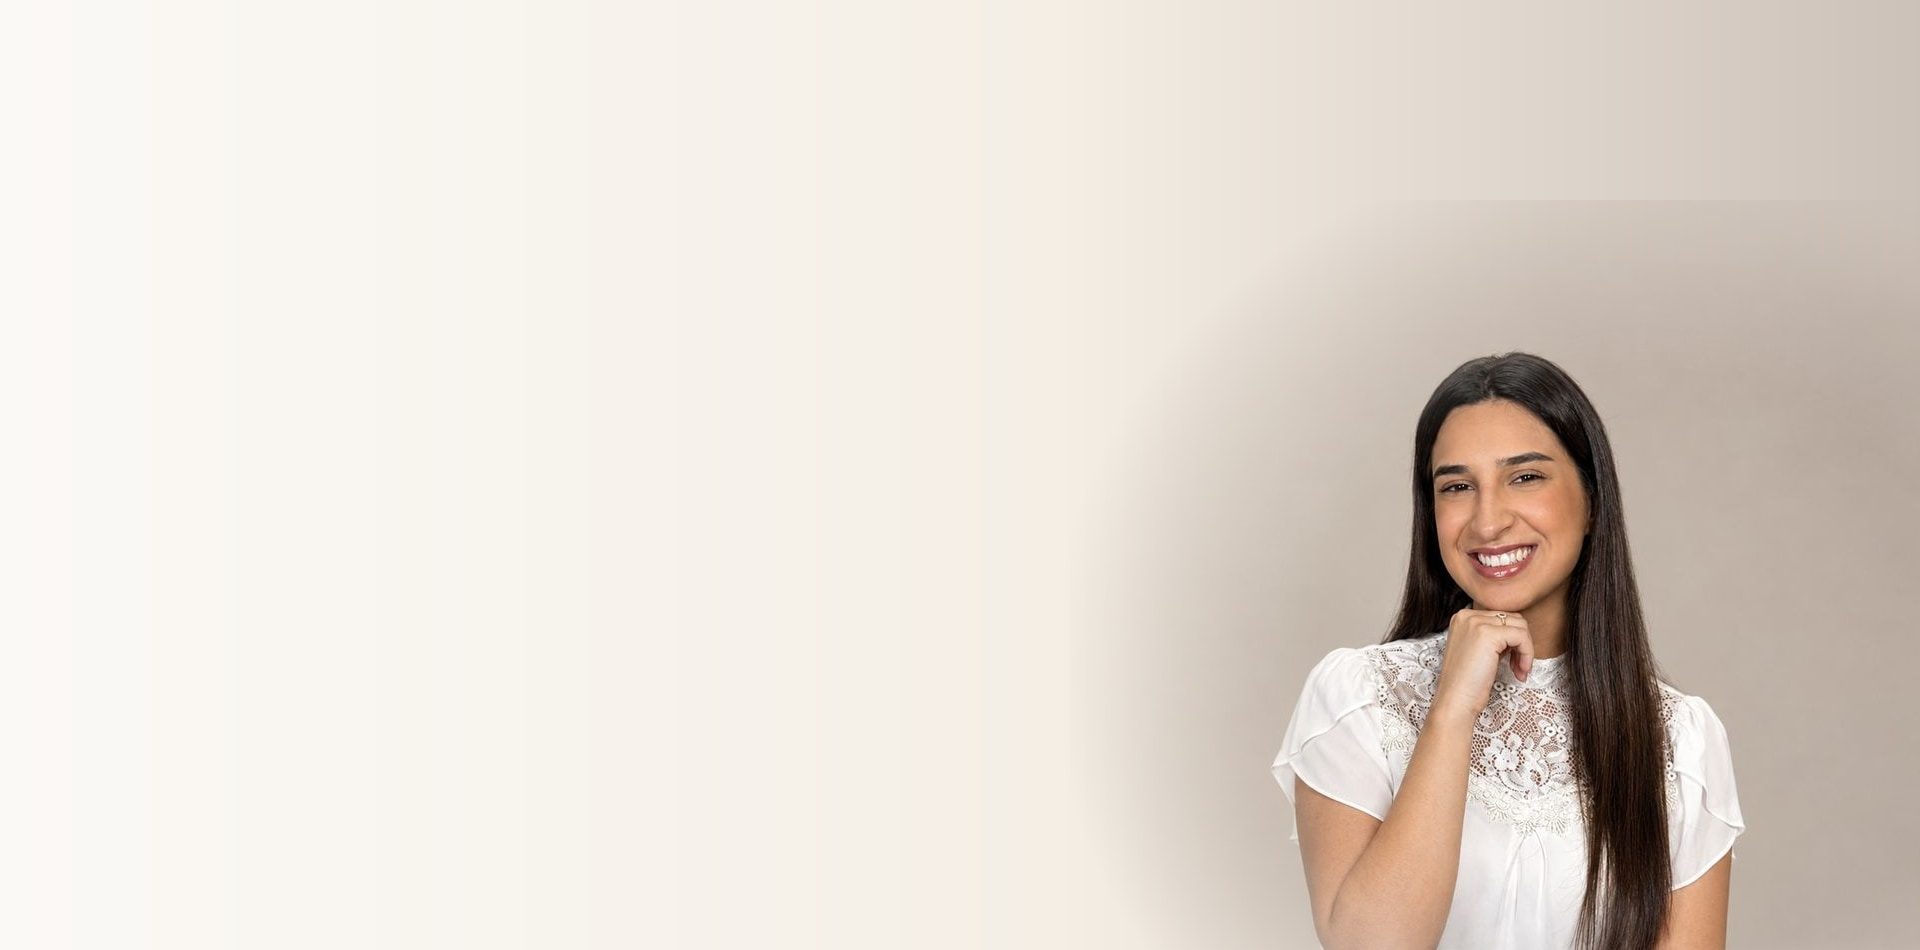
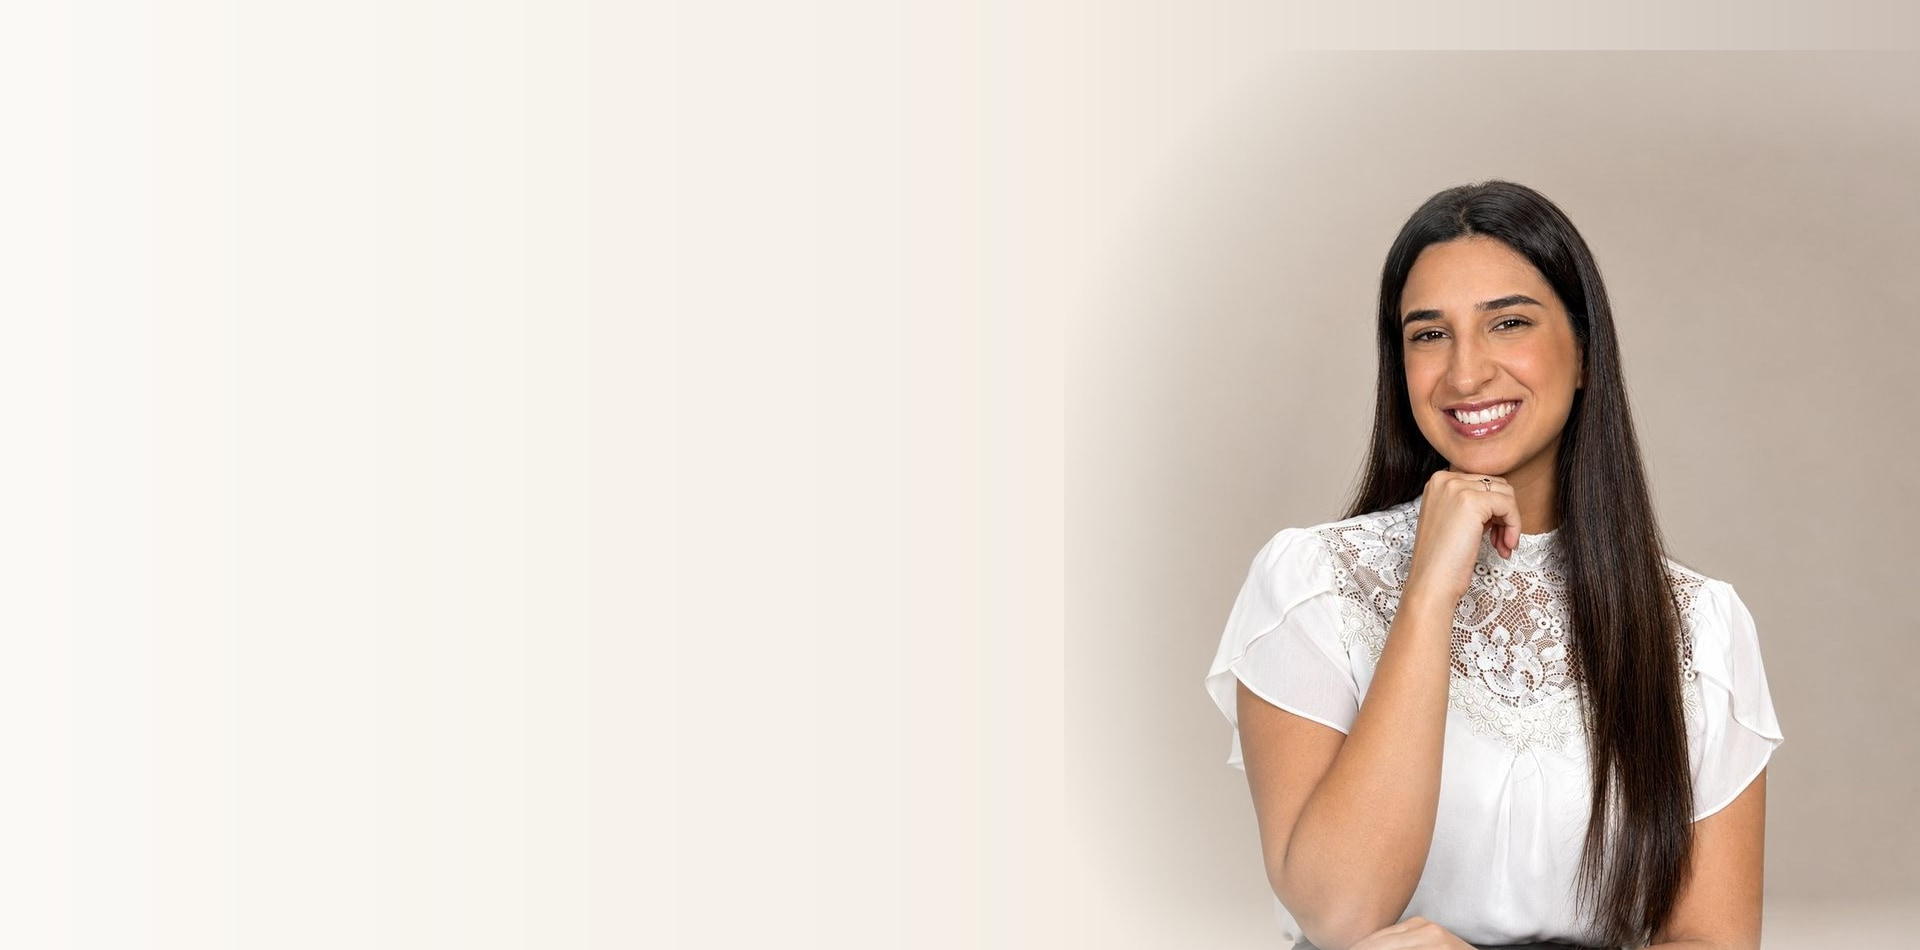
Mostra o corpo inteiro no herói e atualiza para a Foto Início nova
A altura do painel (700px) era menor que a da imagem (950px), então o
object-cover precisava ampliar a foto pra cobrir a altura, cortando as
mãos dela por baixo. Ajustada para 900px, quase do tamanho real da
imagem, então ela aparece inteira sem esse corte.

Também atualiza para a versão nova e com qualidade melhor da Foto
Início que a Letícia gerou, tanto na peça vertical do mobile quanto na
composição larga do desktop.

Changed region(s): [[0.625, 0.0611, 1.0, 1.0]]

diff --git a/app/page.tsx b/app/page.tsx
@@ -57,7 +57,7 @@ export default async function HomePage() {
           </Parallax>
         </div>
 
-        <div className="relative px-5 py-14 md:px-20 md:py-20 lg:flex lg:min-h-[700px] lg:items-center lg:py-24">
+        <div className="relative px-5 py-14 md:px-20 md:py-20 lg:flex lg:min-h-[900px] lg:items-center lg:py-24">
           <div className="max-w-xl">
             <Reveal>
               <div className="flex items-center gap-3">
